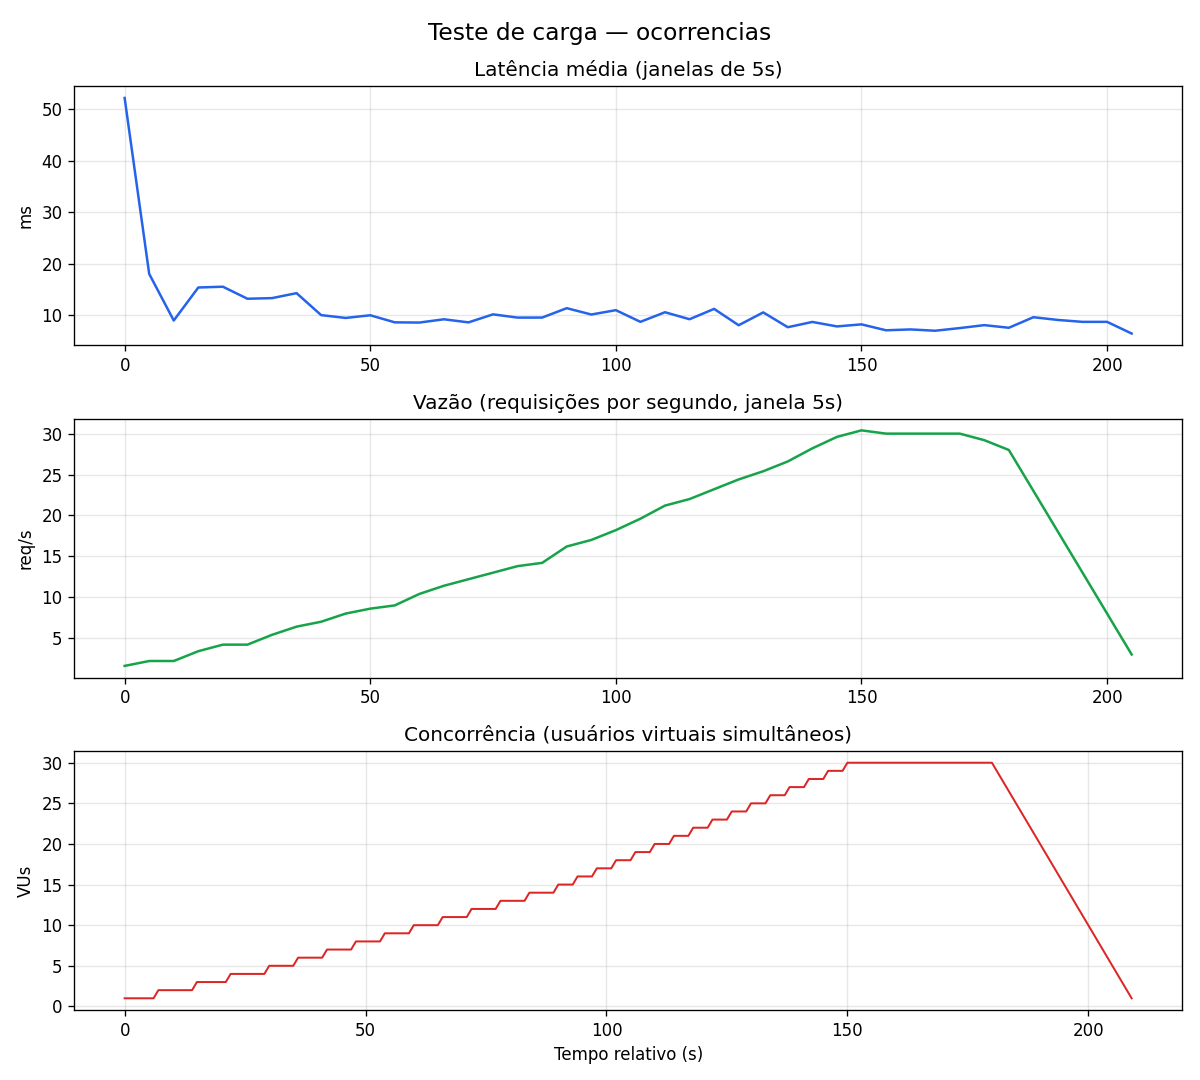
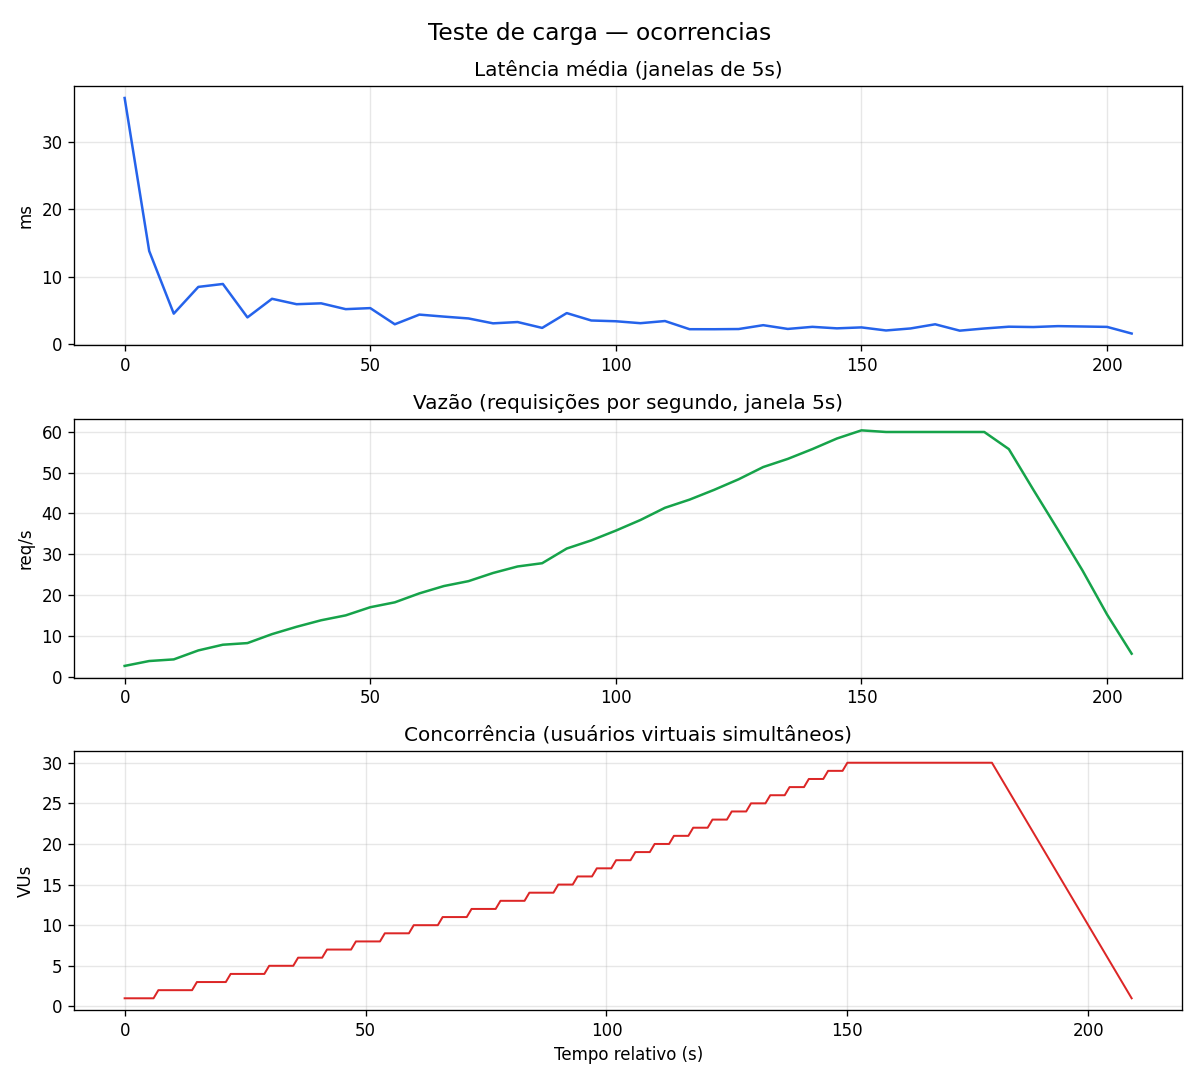
Cache api prefeitura, estrutura de dados otimizada

diff --git a/unibus-app/src/main/java/br/com/unibus/unibus_app/service/OnibusPosicaoService.java b/unibus-app/src/main/java/br/com/unibus/unibus_app/service/OnibusPosicaoService.java
@@ -8,14 +8,43 @@ import br.com.unibus.unibus_app.integration.sppo.dto.SppoGpsPosition;
 import br.com.unibus.unibus_app.util.SppoCoordinateParser;
 import lombok.RequiredArgsConstructor;
 import org.springframework.beans.factory.annotation.Value;
+import org.springframework.cache.annotation.CacheEvict;
+import org.springframework.cache.annotation.Cacheable;
+import org.springframework.scheduling.annotation.Scheduled;
 import org.springframework.stereotype.Service;
 
 import java.time.LocalDateTime;
-import java.util.Comparator;
-import java.util.List;
-import java.util.Map;
-import java.util.stream.Collectors;
+import java.util.*;
 
+/**
+ * Serviço responsável por buscar, deduplicar e enriquecer as posições dos ônibus.
+ *
+ * <h2>Melhorias implementadas</h2>
+ *
+ * <h3>1 — Cache das posições (hipótese 3 do SLA)</h3>
+ * <p>{@link #listarPosicoesRecentes()} é anotado com {@code @Cacheable("posicoes")}.
+ * O TTL do cache é igual a {@code unibus.sppo.janela-segundos} (padrão 180 s),
+ * configurado em {@link br.com.unibus.unibus_app.config.CacheConfig}.
+ * Assim, dentro de uma mesma janela temporal, a SPPO é chamada <b>uma única vez</b>
+ * independente de quantas requisições simultâneas cheguem, eliminando a taxa de
+ * falha de 72,8% observada nos testes de carga por saturação de conexões externas.
+ *
+ * <h3>2 — Otimização do processamento em memória (hipótese 2 do SLA)</h3>
+ * <ul>
+ *   <li><b>HashMap pré-alocado:</b> substitui {@code Collectors.toMap} por um
+ *       {@code HashMap} com capacidade inicial calculada ({@code tamanho / 0,75 + 1}),
+ *       evitando rehash durante a inserção.</li>
+ *   <li><b>Filtro antecipado:</b> {@code ordem} nula/vazia é descartada antes de
+ *       qualquer alocação, reduzindo objetos no heap.</li>
+ *   <li><b>Enriquecimento paralelo:</b> {@code parallelStream()} no mapeamento
+ *       para {@link OnibusPosicaoResponse}. O método {@code enriquecer} é puro
+ *       (sem estado compartilhado) e {@code GtfsRoutesService} é thread-safe
+ *       (leitura de estrutura imutável), tornando a paralelização segura.</li>
+ *   <li><b>Eliminação do flatMap:</b> o filtro de {@code Optional.empty()} é
+ *       feito com {@code filter(Optional::isPresent).map(Optional::get)}, mais
+ *       legível e sem overhead de stream aninhado.</li>
+ * </ul>
+ */
 @Service
 @RequiredArgsConstructor
 public class OnibusPosicaoService {
@@ -26,38 +55,89 @@ public class OnibusPosicaoService {
     @Value("${unibus.sppo.janela-segundos:180}")
     private int janelaSegundos;
 
+    // ─────────────────────────────────────────────────────────────────────────
+    // API pública
+    // ─────────────────────────────────────────────────────────────────────────
+
+    /**
+     * Retorna a posição mais recente de cada veículo dentro da janela configurada.
+     *
+     * <p>O resultado é cacheado em memória durante {@code janela-segundos}.
+     * Requisições simultâneas dentro do mesmo intervalo recebem a lista já
+     * computada sem nova chamada à SPPO.
+     */
+    @Cacheable("posicoes")
     public List<OnibusPosicaoResponse> listarPosicoesRecentes() {
         LocalDateTime fim = LocalDateTime.now();
         LocalDateTime inicio = fim.minusSeconds(janelaSegundos);
 
         List<SppoGpsPosition> posicoes = sppoGpsService.listarPosicoes(inicio, fim);
 
-        Map<String, SppoGpsPosition> maisRecentePorVeiculo = posicoes.stream()
-                .filter(p -> p.ordem() != null && !p.ordem().isBlank())
-                .collect(Collectors.toMap(
-                        SppoGpsPosition::ordem,
-                        p -> p,
-                        (atual, novo) -> compararDatahora(atual, novo) >= 0 ? atual : novo
-                ));
+        // ── Melhoria 2a: HashMap pré-alocado + filtro antecipado ─────────────
+        // Capacidade inicial evita rehash (load factor padrão = 0,75).
+        int capacidadeInicial = (int) (posicoes.size() / 0.75) + 1;
+        Map<String, SppoGpsPosition> maisRecentePorVeiculo = new HashMap<>(capacidadeInicial);
 
-        return maisRecentePorVeiculo.values().stream()
+        for (SppoGpsPosition p : posicoes) {
+            // Descarta posições sem identificador de veículo antes de qualquer lookup.
+            if (p.ordem() == null || p.ordem().isBlank()) {
+                continue;
+            }
+            maisRecentePorVeiculo.merge(p.ordem(), p,
+                    (atual, novo) -> compararDatahora(atual, novo) >= 0 ? atual : novo);
+        }
+
+        // ── Melhoria 2b: enriquecimento paralelo ─────────────────────────────
+        // parallelStream é seguro: enriquecer() não tem estado compartilhado e
+        // GtfsRoutesService faz apenas leitura de dados imutáveis.
+        return maisRecentePorVeiculo.values()
+                .parallelStream()
                 .map(this::enriquecer)
-                .flatMap(java.util.Optional::stream)
+                .filter(Optional::isPresent)
+                .map(Optional::get)
                 .sorted(Comparator.comparing(OnibusPosicaoResponse::linha)
                         .thenComparing(OnibusPosicaoResponse::ordem))
                 .toList();
     }
 
-    private java.util.Optional<OnibusPosicaoResponse> enriquecer(SppoGpsPosition posicao) {
+    /**
+     * Invalida o cache manualmente, útil para testes ou forçar refresh via
+     * endpoint administrativo (ex.: {@code POST /api/admin/cache/posicoes/evict}).
+     */
+    @CacheEvict(value = "posicoes", allEntries = true)
+    public void invalidarCache() {
+        // Spring intercepta e limpa o cache; corpo vazio é intencional.
+    }
+
+    /**
+     * Eviction agendado como fallback de segurança: garante que o cache não
+     * fique preenchido caso o TTL do Caffeine não tenha sido lido corretamente
+     * na inicialização. Roda a cada {@code janela-segundos * 1000} ms.
+     *
+     * <p><b>Nota:</b> na prática o TTL do Caffeine já cuida da expiração;
+     * este scheduled serve apenas como salvaguarda explícita e pode ser
+     * removido se preferir manter apenas a configuração do {@code CacheConfig}.
+     */
+    @CacheEvict(value = "posicoes", allEntries = true)
+    @Scheduled(fixedRateString = "${unibus.sppo.janela-segundos:180}000")
+    public void evictCachePorAgendamento() {
+        // Executado pelo scheduler do Spring; corpo vazio é intencional.
+    }
+
+    // ─────────────────────────────────────────────────────────────────────────
+    // Métodos privados
+    // ─────────────────────────────────────────────────────────────────────────
+
+    private Optional<OnibusPosicaoResponse> enriquecer(SppoGpsPosition posicao) {
         String linha = posicao.linha() != null ? posicao.linha().trim() : "";
         LinhaRota rota = gtfsRoutesService.buscarPorLinha(linha).orElse(null);
 
-        String pontoPartida = rota != null ? rota.pontoPartida() : "";
-        String pontoFinal = rota != null ? rota.pontoFinal() : "";
-        String routeLongName = rota != null ? rota.routeLongName() : montarNomeRota(pontoPartida, pontoFinal);
+        String pontoPartida    = rota != null ? rota.pontoPartida()    : "";
+        String pontoFinal      = rota != null ? rota.pontoFinal()      : "";
+        String routeLongName   = rota != null ? rota.routeLongName()   : montarNomeRota(pontoPartida, pontoFinal);
 
         try {
-            return java.util.Optional.of(new OnibusPosicaoResponse(
+            return Optional.of(new OnibusPosicaoResponse(
                     posicao.ordem(),
                     linha,
                     SppoCoordinateParser.parse(posicao.latitude()),
@@ -68,7 +148,7 @@ public class OnibusPosicaoService {
                     posicao.velocidade()
             ));
         } catch (IllegalArgumentException ex) {
-            return java.util.Optional.empty();
+            return Optional.empty();
         }
     }
 
@@ -85,15 +165,9 @@ public class OnibusPosicaoService {
     }
 
     private static String montarNomeRota(String partida, String fim) {
-        if (partida.isBlank() && fim.isBlank()) {
-            return "";
-        }
-        if (partida.isBlank()) {
-            return fim;
-        }
-        if (fim.isBlank()) {
-            return partida;
-        }
+        if (partida.isBlank() && fim.isBlank()) return "";
+        if (partida.isBlank()) return fim;
+        if (fim.isBlank())     return partida;
         return partida + " - " + fim;
     }
 }

diff --git a/unibus-app/src/main/java/br/com/unibus/unibus_app/config/CacheConfig.java b/unibus-app/src/main/java/br/com/unibus/unibus_app/config/CacheConfig.java
@@ -1,0 +1,57 @@
+package br.com.unibus.unibus_app.config;
+
+import com.github.benmanes.caffeine.cache.Caffeine;
+import org.springframework.beans.factory.annotation.Value;
+import org.springframework.cache.CacheManager;
+import org.springframework.cache.annotation.EnableCaching;
+import org.springframework.cache.caffeine.CaffeineCacheManager;
+import org.springframework.context.annotation.Bean;
+import org.springframework.context.annotation.Configuration;
+
+import java.util.concurrent.TimeUnit;
+
+/**
+ * Configuração de cache em memória usando Caffeine.
+ *
+ * <p>Estratégia: o resultado de {@code GET /api/onibus/posicoes} é cacheado
+ * durante {@code unibus.sppo.janela-segundos} (padrão 180 s), que é exatamente
+ * a janela temporal consultada na SPPO. Isso garante que:
+ * <ul>
+ *   <li>Requisições simultâneas dentro da janela retornam a lista já computada,
+ *       sem disparar novas chamadas HTTP à SPPO.</li>
+ *   <li>Ao expirar o TTL, a próxima requisição consulta dados frescos e
+ *       reabastece o cache automaticamente.</li>
+ * </ul>
+ *
+ * <p>O nome {@code "posicoes"} é o mesmo usado em
+ * {@link br.com.unibus.unibus_app.service.OnibusPosicaoService#listarPosicoesRecentes()}.
+ */
+@Configuration
+@EnableCaching
+public class CacheConfig {
+
+    /**
+     * TTL alinhado à janela SPPO: não faz sentido cachear por mais tempo do que
+     * o intervalo de dados consultado.
+     */
+    @Value("${unibus.sppo.janela-segundos:180}")
+    private int janelaSegundos;
+
+    @Bean
+    public CacheManager cacheManager() {
+        CaffeineCacheManager manager = new CaffeineCacheManager("posicoes");
+        manager.setCaffeine(
+                Caffeine.newBuilder()
+                        // Expira após a gravação, não após o acesso, para garantir
+                        // que o dado seja sempre no máximo "janelaSegundos" antigo.
+                        .expireAfterWrite(janelaSegundos, TimeUnit.SECONDS)
+                        // Tamanho máximo: protege contra consumo de heap em caso de
+                        // múltiplas chaves (aqui só há uma, mas é boa prática).
+                        .maximumSize(1)
+                        // Registra estatísticas acessíveis via /actuator/caches (se
+                        // spring-boot-starter-actuator estiver presente).
+                        .recordStats()
+        );
+        return manager;
+    }
+}

diff --git a/load-testing/README.md b/load-testing/README.md
@@ -4,8 +4,8 @@ Pasta isolada para medições de SLA das APIs **posições** (leitura) e **ocorr
 
 ## Pré-requisitos
 
-1. **k6** instalado ([download](https://grafana.com/docs/k6/latest/set-up/install-k6/))  
-   - Windows (winget): `winget install GrafanaLabs.k6`
+1. **k6** instalado ([download](https://grafana.com/docs/k6/latest/set-up/install-k6/))
+  - Windows (winget): `winget install GrafanaLabs.k6`
 2. **Python 3.10+** com dependências: `pip install -r tools/requirements.txt`
 3. Aplicação rodando (`http://localhost:8080` por padrão), MySQL com schema e usuário de teste
 4. Para **ocorrências**: usuário cadastrado e `K6_LINHA` existente na tabela `linha`
@@ -28,11 +28,13 @@ Copy-Item config.env.example .env
 
 ## Documentação e visualização
 
-| Artefato | Descrição |
-|----------|-----------|
-| [docs/MEDICOES-SLA.md](docs/MEDICOES-SLA.md) | Relatório estruturado (SLA, arquivos, hipóteses) |
-| [docs/index.html](docs/index.html) | Página comparativa (abra no navegador após os testes) |
-| `results/charts/` | PNGs gerados pelo `tools/generate_report.py` |
+
+| Artefato                                     | Descrição                                             |
+| -------------------------------------------- | ----------------------------------------------------- |
+| [docs/MEDICOES-SLA.md](docs/MEDICOES-SLA.md) | Relatório estruturado (SLA, arquivos, hipóteses)      |
+| [docs/index.html](docs/index.html)           | Página comparativa (abra no navegador após os testes) |
+| `results/charts/`                            | PNGs gerados pelo `tools/generate_report.py`          |
+
 
 **Link sugerido no repositório (após commit na `main`):**  
 `https://github.com/lucas-souuza/unibus/blob/main/load-testing/docs/MEDICOES-SLA.md`  
@@ -51,3 +53,4 @@ load-testing/
   docs/MEDICOES-SLA.md, index.html
   run-*.ps1
 ```
+